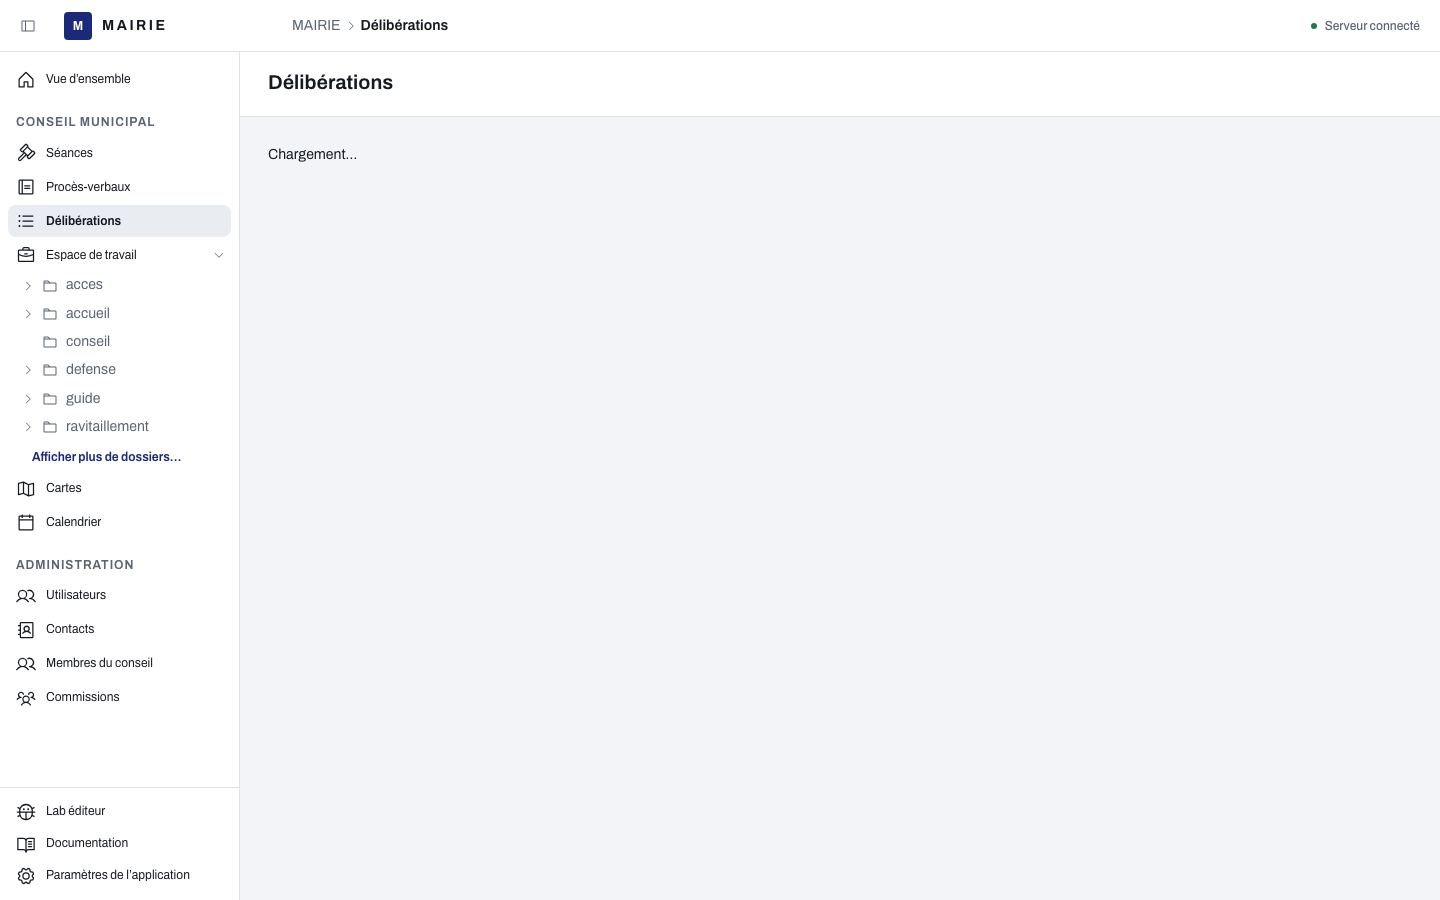
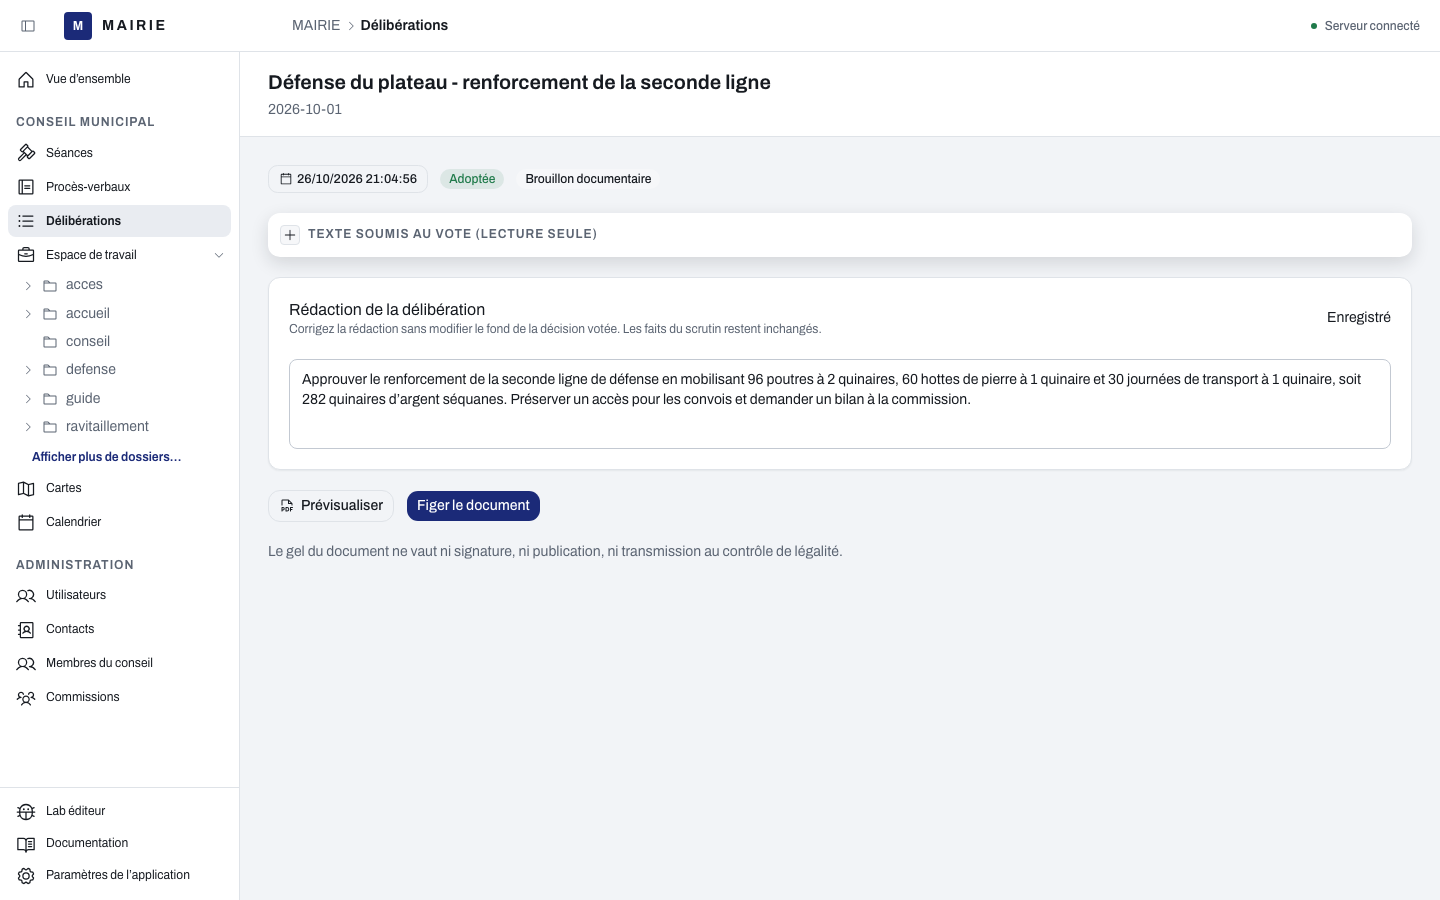
Document business preparation, capture the history and legal reference screens, and state the missing second convocation form
The first journey, preparing a business and the agenda, is rewritten on the
real screens with its capture scenario. The history and legal reference pages
receive their screen, the deliberation sheet is captured once loaded, and the
no-quorum page says that the second convocation form is not reachable yet.

diff --git a/packages/client/e2e/captures/preparation.captures.ts b/packages/client/e2e/captures/preparation.captures.ts
@@ -1,0 +1,33 @@
+import { capture, expect, test } from "./fixtures";
+
+test.setTimeout(3 * 60_000);
+test.use({ seedScenario: "preparation" });
+
+test("préparation d’une affaire : création, rapport, documents, élément préparé", async ({ docsPage: page }) => {
+  const journey = "preparation";
+  await page.goto("/app/workspace");
+  await page.waitForLoadState("networkidle");
+  await page.getByTestId("workspace-create-menu").first().click();
+  await expect(page.getByRole("menuitem", { name: "Nouvelle affaire" })).toBeVisible();
+  await capture(page, `${journey}/01-nouveau`);
+  await page.getByRole("menuitem", { name: "Nouvelle affaire" }).click();
+  await expect(page.getByTestId("workspace-create-name")).toBeVisible();
+  await page.getByTestId("workspace-create-name").fill("Réfection du pont de la Laume");
+  await capture(page, `${journey}/02-nouvelle-affaire`);
+  await page.getByTestId("workspace-create-submit").click();
+  await expect(page.getByTestId("business-report-editor")).toBeVisible({ timeout: 30_000 });
+  await page.waitForTimeout(800);
+  await capture(page, `${journey}/03-affaire-creee`);
+
+  await page.getByTestId("business-report-editor").click();
+  await page.keyboard.type(
+    "Le pont de la Laume, emprunté par les convois de ravitaillement, montre des poutres fendues. Le conseil doit décider de sa réfection avant l’hiver et en fixer le financement.",
+  );
+  await page.waitForTimeout(2500);
+  await capture(page, `${journey}/04-rapport`);
+
+  await page.getByTestId("attachment-picker-open").first().click();
+  await expect(page.getByTestId("attachment-picker-panel")).toBeVisible();
+  await capture(page, `${journey}/05-joindre-un-document`);
+  await page.keyboard.press("Escape");
+});

diff --git a/packages/client/e2e/captures/ecrans.captures.ts b/packages/client/e2e/captures/ecrans.captures.ts
@@ -3,7 +3,7 @@ import { capture, expect, test } from "./fixtures";
 
 /** Every screen of the "Écrans" section, on the dataset with closed meetings and one meeting in progress. */
 const scenario = (process.env.HALL_DOCS_SCENARIO ?? "default") as "preparation" | "default" | "minutes";
-test.setTimeout(3 * 60_000);
+test.setTimeout(8 * 60_000);
 test.use({ seedScenario: scenario });
 
 interface Entity {
@@ -62,7 +62,18 @@ test("les écrans de Hall sur le jeu Alésia", async ({ docsPage: page }) => {
   const resources = await entities(page, "/api/resources");
   const byKind = (kind: string) => resources.find((resource) => resource.kind === kind);
   const text = byKind("text");
-  if (text) await open(page, `/workspace?resource=${text.id}`, "editeur-de-texte");
+  if (text) {
+    await open(page, `/workspace?resource=${text.id}`, "editeur-de-texte");
+    await open(page, `/workspace?resource=${text.id}`, "historique-des-modifications", async () => {
+      await page.getByTestId("resource-changes-trigger").first().click();
+      await expect(page.getByTestId("resource-changes-panel")).toBeVisible();
+    });
+  }
+  await open(page, "/workspace", "reference-juridique", async () => {
+    await page.getByTestId("workspace-create-menu").first().click();
+    await page.getByTestId("workspace-create-legalReference").click();
+    await page.waitForTimeout(800);
+  });
   const spreadsheet = byKind("spreadsheet");
   if (spreadsheet) {
     await open(page, `/workspace?resource=${spreadsheet.id}`, "tableur", async () => {

diff --git a/packages/client/e2e/captures/deliberations.captures.ts b/packages/client/e2e/captures/deliberations.captures.ts
@@ -14,6 +14,8 @@ test("délibérations après le vote : du brouillon au document figé", async ({
     .first()
     .click();
   await expect(page.getByTestId("decision-detail")).toBeVisible();
+  await expect(page.getByTestId("decision-view")).toBeVisible({ timeout: 30_000 });
+  await page.waitForTimeout(800);
   await capture(page, `${journey}/02-fiche-de-la-deliberation`);
 
   await page.getByTestId("decision-submitted-toggle").click();
